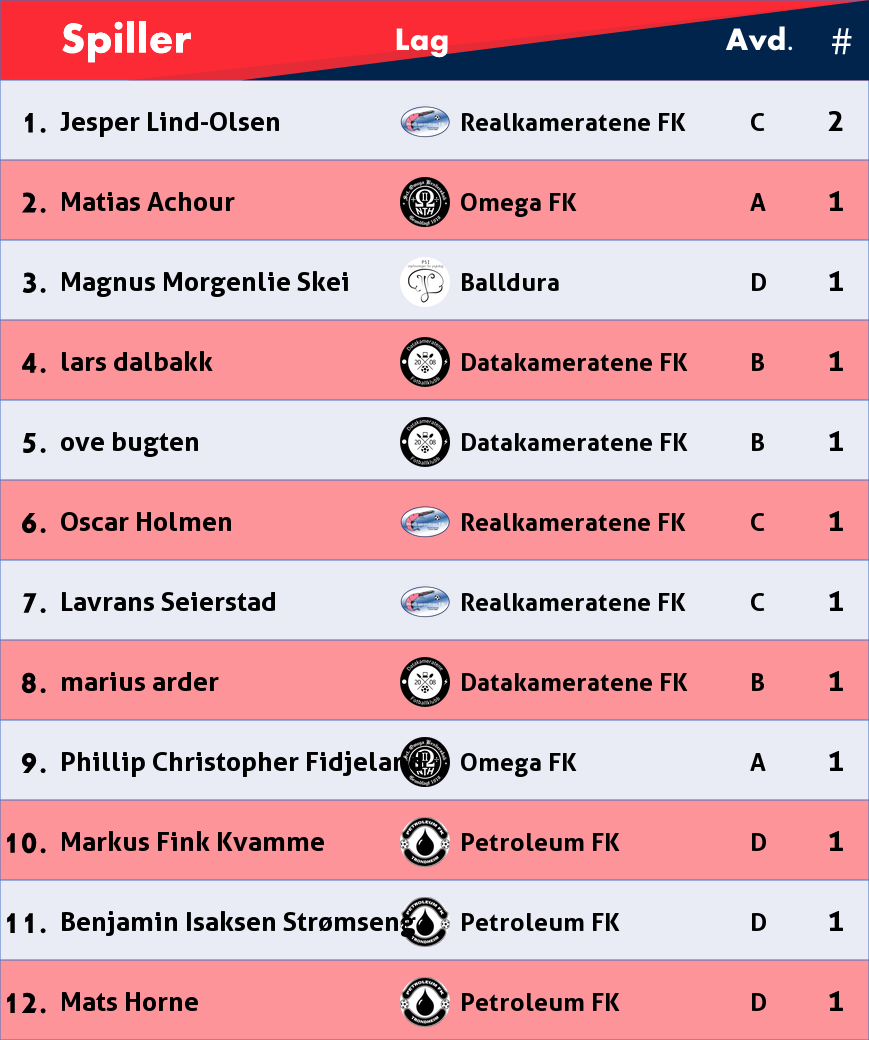
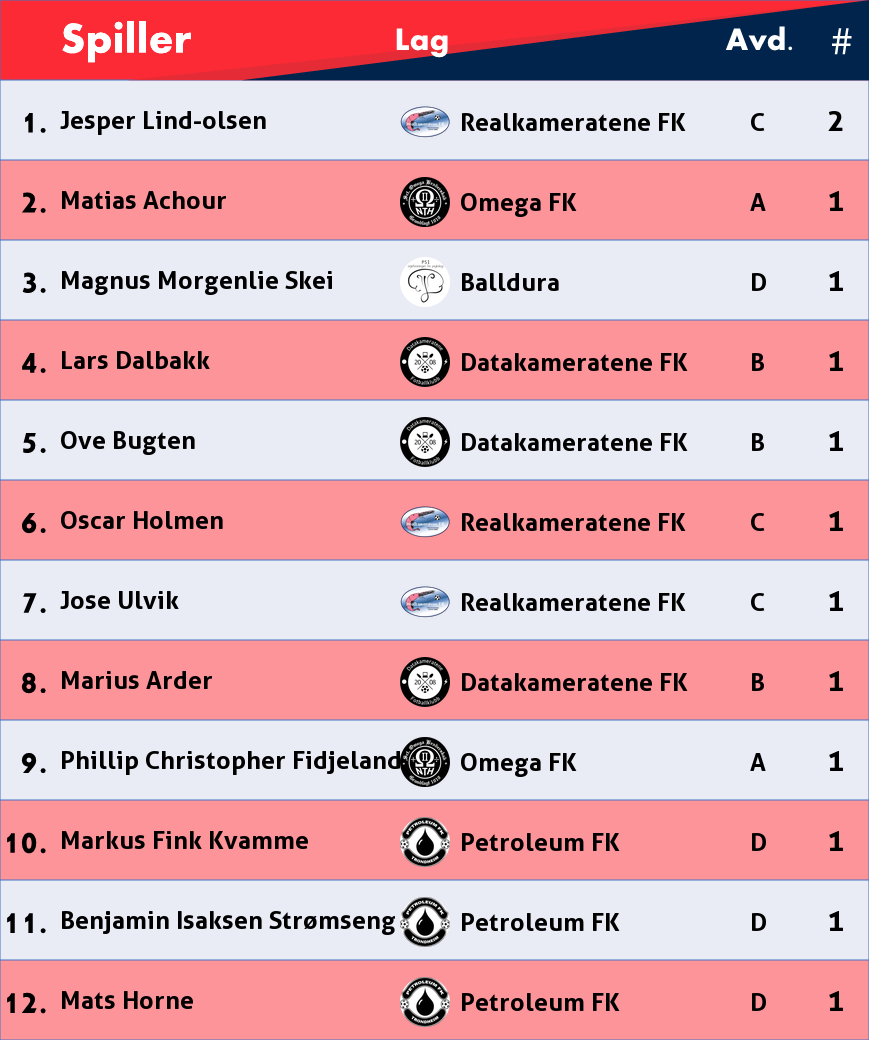
Updated table

diff --git a/Scripts/UpdateStats.py b/Scripts/UpdateStats.py
@@ -1,6 +1,7 @@
 from PIL import Image, ImageDraw, ImageFont
 import pandas as pd
 from UpdateResults import readFromWeb
+import string
 
 leagues = {"Energi FK": "A",
            "NTNUI Samba": "A",
@@ -43,7 +44,7 @@ def getStats(data_raw: pd.DataFrame) -> dict:
             for elem in row[6].split():
                 try:
                     newNum = int(elem)
-                    homePlayers[oldNum] = name.strip()
+                    homePlayers[oldNum] = string.capwords(name.strip())
                     name = ""
                     oldNum = newNum
                 except ValueError:
@@ -51,7 +52,7 @@ def getStats(data_raw: pd.DataFrame) -> dict:
                 except NameError:
                     oldNum = newNum
             try:
-                homePlayers[oldNum] = name.strip()
+                homePlayers[oldNum] = string.capwords(name.strip())
                 homeStats = True
             except Exception:
                 homeStats = False
@@ -65,7 +66,7 @@ def getStats(data_raw: pd.DataFrame) -> dict:
             for elem in row[11].split():
                 try:
                     newNum = int(elem)
-                    awayPlayers[oldNum] = name.strip()
+                    awayPlayers[oldNum] = string.capwords(name.strip())
                     name = ""
                     oldNum = newNum
                 except ValueError:
@@ -73,7 +74,7 @@ def getStats(data_raw: pd.DataFrame) -> dict:
                 except NameError:
                     oldNum = newNum
             try:
-                awayPlayers[oldNum] = name.strip()
+                awayPlayers[oldNum] = string.capwords(name.strip())
                 awayStats = True
             except Exception:
                 awayStats = False
@@ -219,7 +220,7 @@ def createStatImage(df: pd.DataFrame, index: int):
         logo = Image.open("C:/Users/Simen/tables2/tables/Scripts/Logoer - Runde/" + teamname + ".png")
         logo = logo.resize((50,50), Image.ANTIALIAS)
         img.paste(logo,(400, int(y)-10), mask = logo)
-        draw.text((60, y-2),playername,(0,0,0), font=fontM)
+        draw.text((60, y-2),playername,(0,0,0), font=font)
         draw.text((460, y),teamname,(0,0,0), font=font)
         draw.text((750, y),leagues[teamname],(0,0,0),font=font)
         draw.text((827, y-5),str(stat),(0,0,0),font=fontBig)
